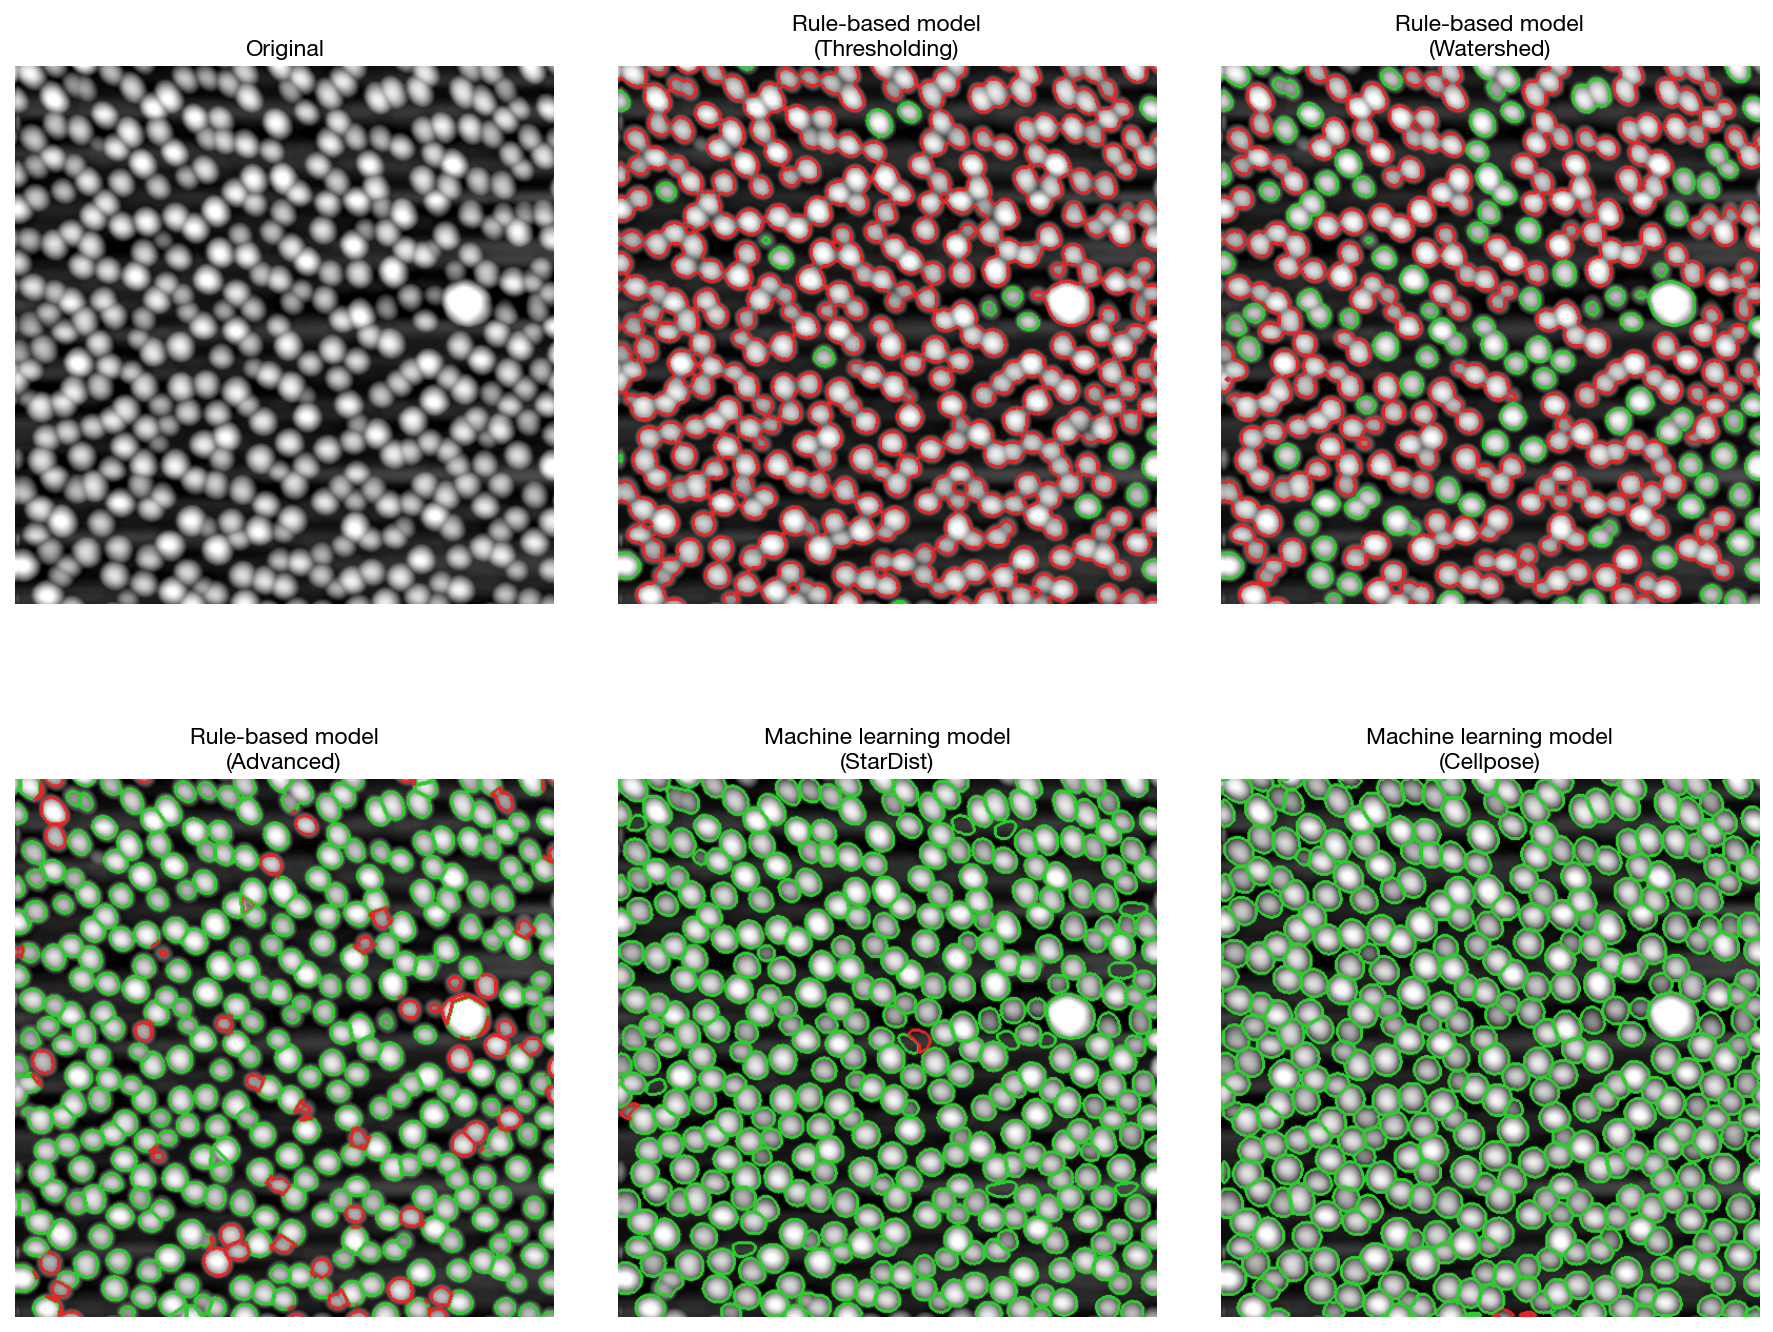
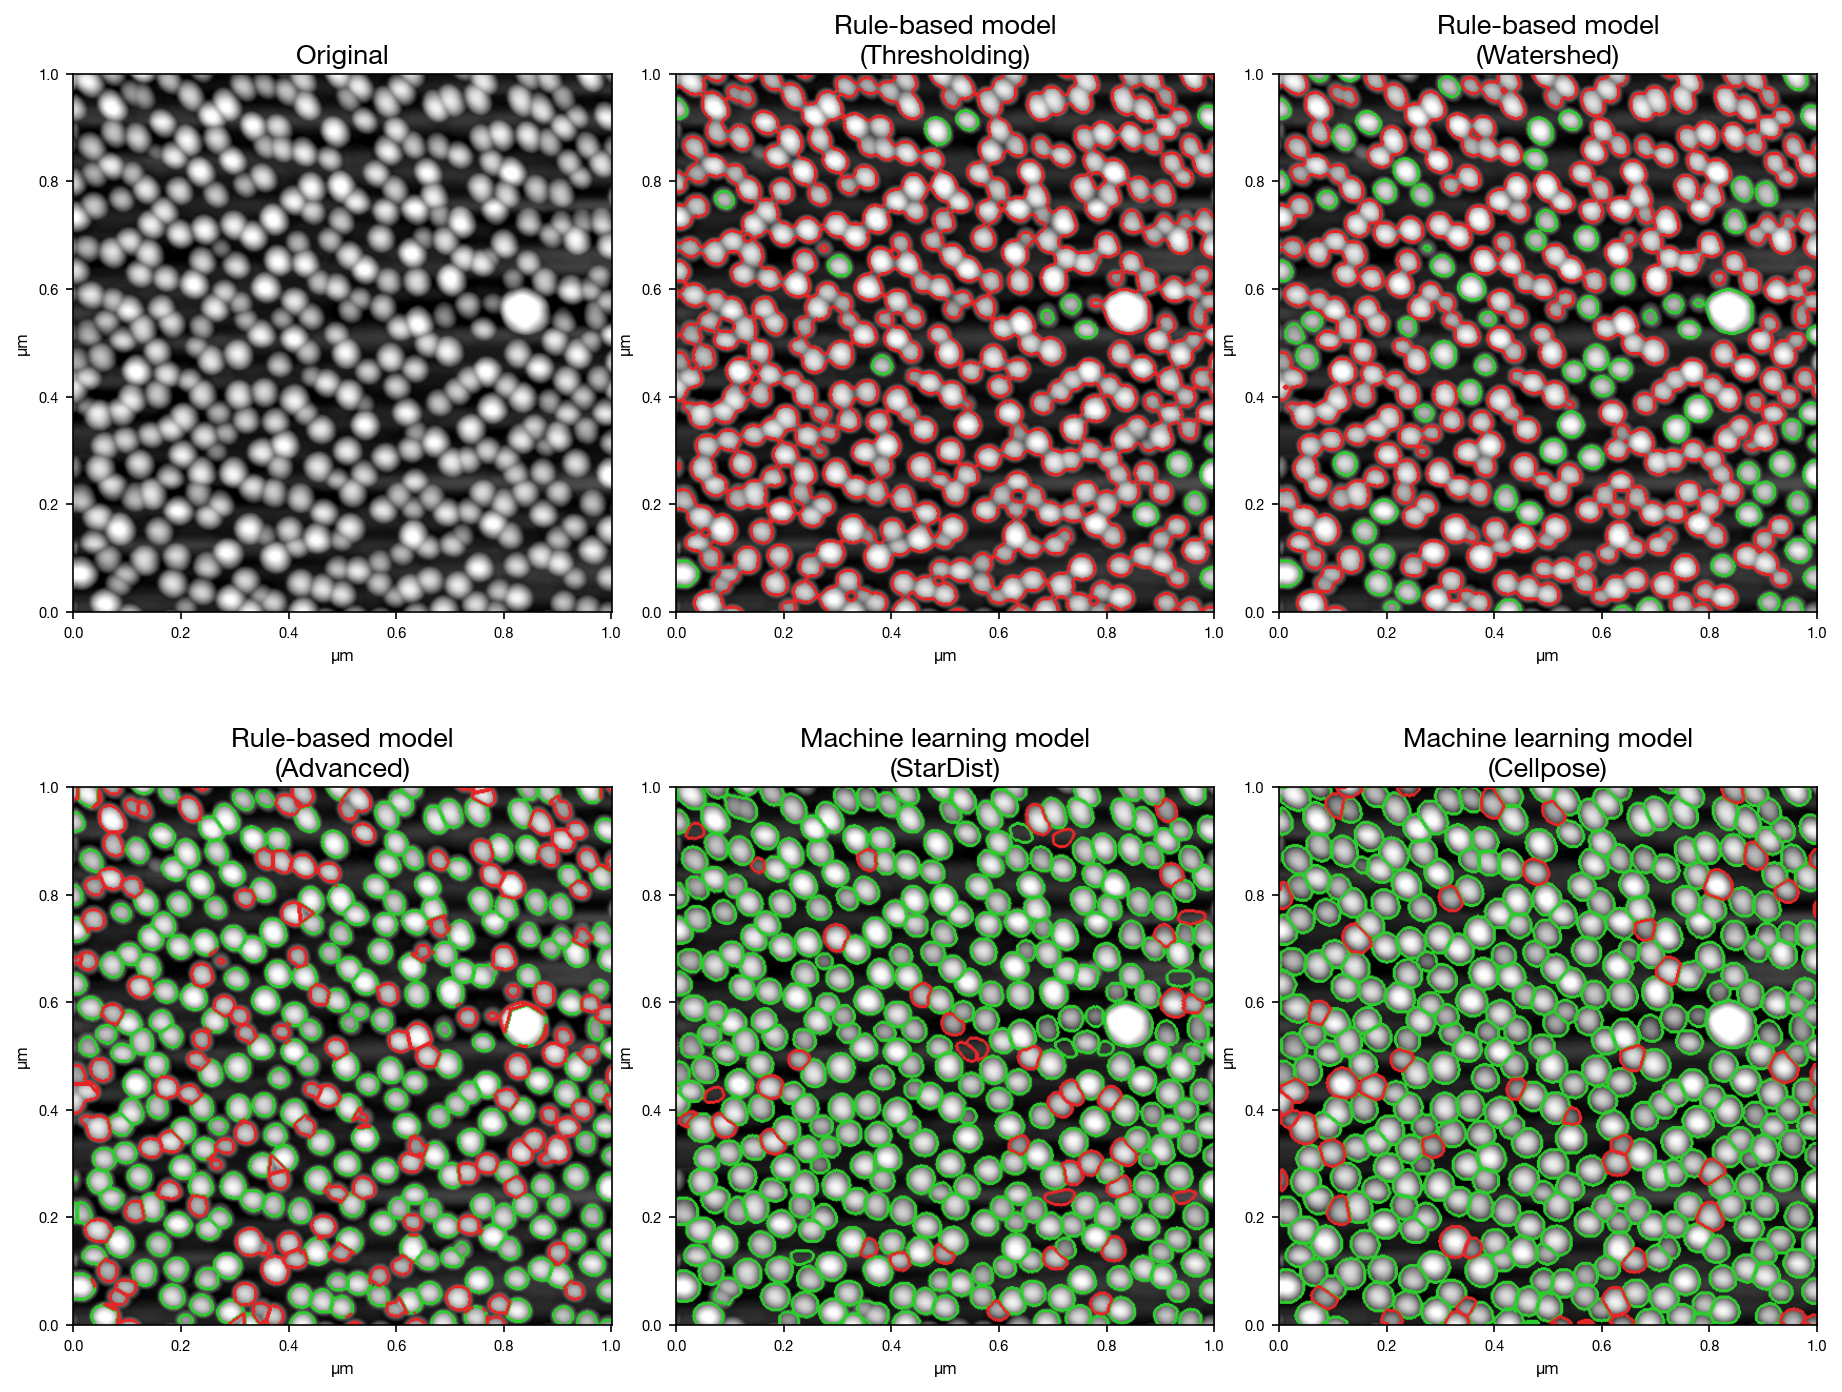
Update demo.png: solidity>=0.95 boundary coloring, μm axis labels, bolder titles

diff --git a/make_demo_image.py b/make_demo_image.py
@@ -42,8 +42,8 @@ data.baseline_correction("min_to_zero")
 height = data.get_data()
 meta   = data.get_meta()
 px_nm  = meta.get("pixel_nm", (1.0, 1.0))[0]
-scan   = height.shape[1] * px_nm
-extent = [0, scan, 0, scan]
+scan_um = height.shape[1] * px_nm / 1000.0
+extent = [0, scan_um, 0, scan_um]
 
 # ── 1. Segmentation ───────────────────────────────────────────────────────────
 
@@ -93,19 +93,25 @@ def paint_boundaries(rgb: np.ndarray, labels: np.ndarray,
     props = regionprops(labels)
     solidity = {p.label: p.solidity for p in props}
 
-    # Inner boundary: pixels just inside each grain edge
+    # Inner boundary: pixels are inside the grain → labels[y,x] gives own label
     bounds = find_boundaries(labels, mode="inner")
 
-    # Dilate the integer label map so boundary pixels keep their grain's label
-    selem = disk(thickness)
-    label_dilated = dilation(labels, selem)
-    thick_bounds = dilation(bounds, selem)
-
-    ys, xs = np.where(thick_bounds)
+    # Assign color index on inner boundary pixels: 1=convex, 2=nonconvex
+    # Inner boundary pixels always carry their own grain's label
+    index = np.zeros(labels.shape, dtype=np.uint8)
+    ys, xs = np.where(bounds)
     for y, x in zip(ys, xs):
-        lbl = label_dilated[y, x]
+        lbl = labels[y, x]
         sol = solidity.get(lbl, 1.0)
-        out[y, x] = convex_color if sol >= 0.9 else nonconvex_color
+        index[y, x] = 1 if sol >= 0.95 else 2
+
+    # Dilate index map — max dilation, single integer array, no channel mixing
+    selem = disk(thickness)
+    index = dilation(index, selem)
+
+    # Paint: index>0 pixels get their assigned color
+    out[index == 1] = convex_color
+    out[index == 2] = nonconvex_color
     return out
 
 # ── 3. Figure ─────────────────────────────────────────────────────────────────
@@ -135,8 +141,10 @@ for ax, (title, labels) in zip(axes.flat, PANELS):
     else:
         img = gray_rgb
     ax.imshow(img, origin="lower", extent=extent, interpolation="bilinear")
-    ax.set_title(title, fontsize=11, fontweight="bold", pad=5, linespacing=1.3)
-    ax.axis("off")
+    ax.set_title(title, fontsize=13, fontweight="bold", pad=5, linespacing=1.3)
+    ax.set_xlabel("μm", fontsize=8)
+    ax.set_ylabel("μm", fontsize=8)
+    ax.tick_params(labelsize=7)
 
 out = Path("docs/demo.png")
 out.parent.mkdir(parents=True, exist_ok=True)
